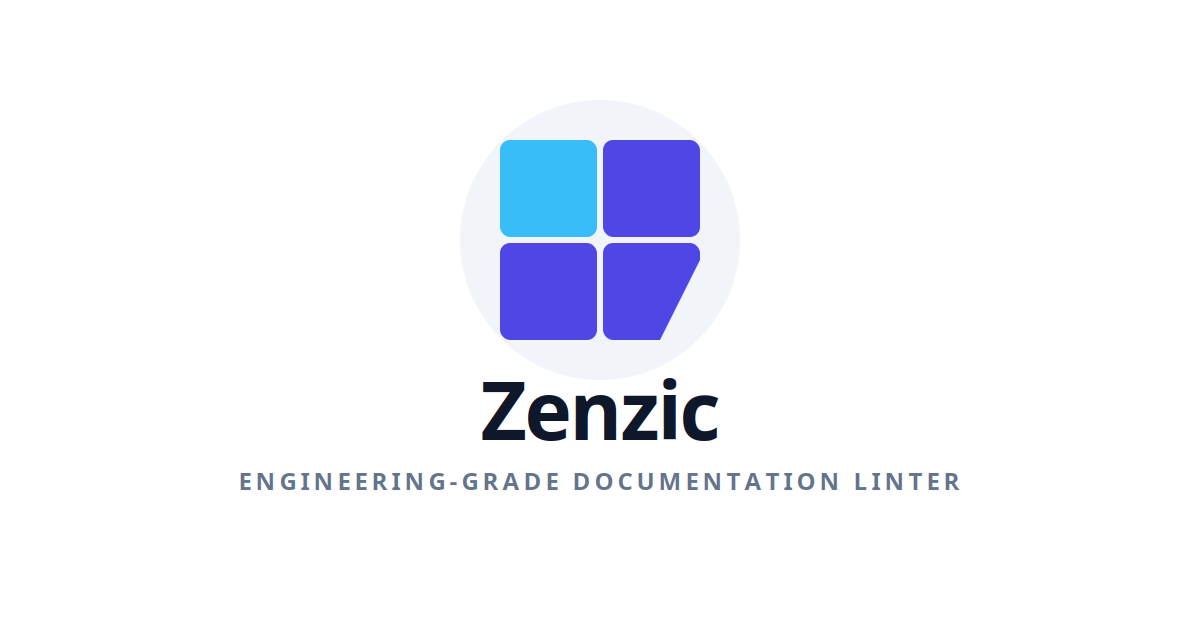
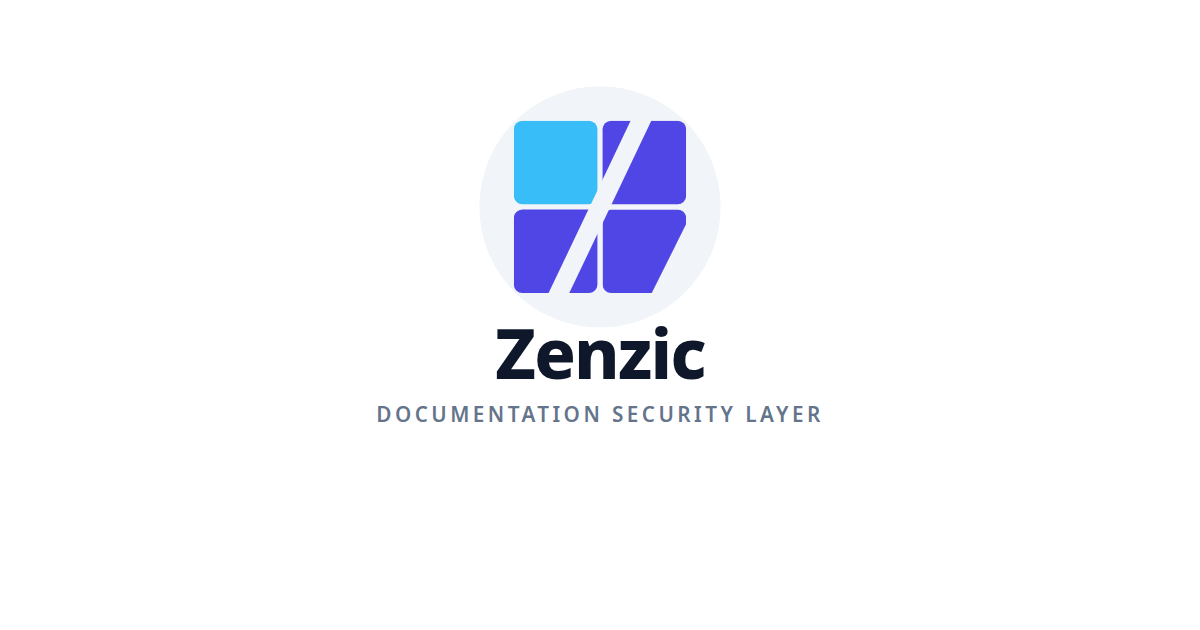
fix: rebrand social card and fix OG image path
- Social card subtitle: "Documentation Security Layer" (was "Linter")
- Tagline in docusaurus.config.ts aligned to new positioning
- Fixed OG image path from /social/ to /assets/social/ (was 404)
- Added /drafts to .gitignore

Changed region(s): [[0.3083, 0.181, 0.6783, 0.7238], [0.185, 0.754, 0.8017, 0.7841]]

diff --git a/docusaurus.config.ts b/docusaurus.config.ts
@@ -4,7 +4,7 @@ import type * as Preset from '@docusaurus/preset-classic';
 
 const config: Config = {
   title: 'Zenzic',
-  tagline: 'Engineering-grade documentation linter',
+  tagline: 'Documentation security layer',
   favicon: 'img/favicon.ico',
 
   // Future flags for v4 compatibility
@@ -70,7 +70,7 @@ const config: Config = {
 
   themeConfig: {
     // Social sharing image
-    image: '/social/social-card.svg',
+    image: '/assets/social/social-card.svg',
     colorMode: {
       defaultMode: 'dark',
       respectPrefersColorScheme: true,
